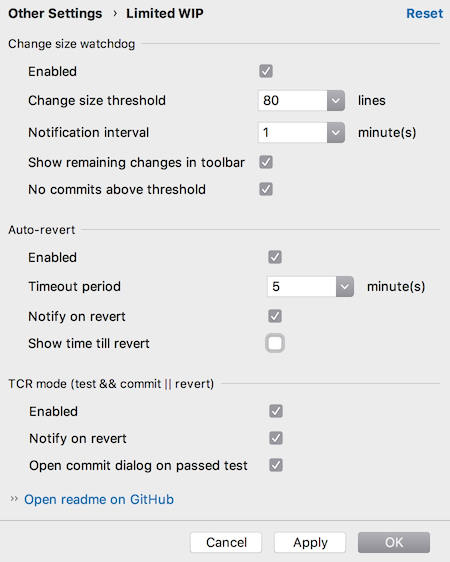
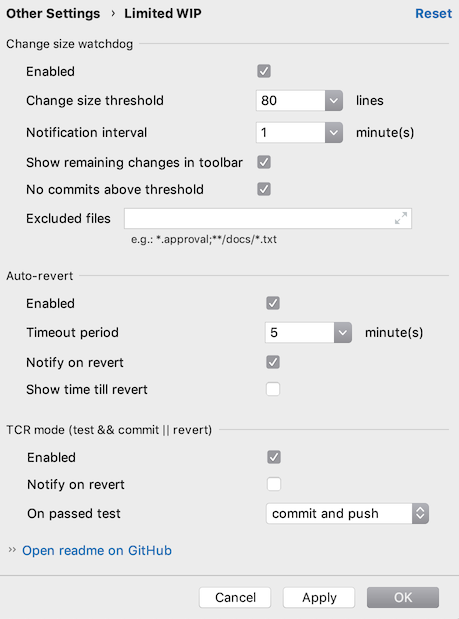
updated readme

diff --git a/README.md b/README.md
@@ -30,9 +30,12 @@ You can find settings in `Preferences -> Other Settings -> Limited WIP`, where y
  - enable/disable statusbar widget showing current change size and change size threshold, 
    e.g. `Change size: 50/80` means that change size is 50 and threshold is 80.
    You can click on the widget to suppress notifications until next commit.
- - if commits are allowed after change size exceeded threshold.
+ - enable/disable commits after change size exceeded threshold.
    If enabled and change size is above threshold, you will not be able to open commit dialog 
    and will see notification popup instead (although you can still force commit by clicking on the link in the popup).
+ - choose excluded files which will not be monitored by the watchdog.
+   Use `;` to separate patterns. Accepted wildcards: `?` - exactly one symbol;
+   `*` - zero or more symbols; `/` - path separator; `/**/` - any number of directories. 
 
 
 ## Auto-revert
@@ -55,15 +58,19 @@ You can find settings in `Preferences -> Other Settings -> Limited WIP`, where y
 
 
 ## TCR mode (test && commit || revert)
-You're not allowed to commit without running a test.
-If the test fails, changes are reverted. If the test passed, you should commit.
+ - You're not allowed to commit without running a test.
+ - If the test fails, current change list is reverted. 
+ - If the test passed, changes are committed.
 This is the most recent constraint so there isn't a lot of experience using it.
 However, it's much more useful and enjoyable than it might seem initially.
 
 You can find settings in `Preferences -> Other Settings -> Limited WIP`, where you can:
- - enable/disable component (it is disabled by default)
- - enable/disable notification on auto-revert (to make it clear why current changes disappeared)
- - enable/disable opening commit dialog on passed test 
+ - enable/disable component (disabled by default)
+ - enable/disable notification on revert (to make it clear why current changes disappeared)
+ - choose action on passed test, it can be
+    - open commit dialog
+    - commit (using last commit message)
+    - commit and push (if "push" is supported by VCS)
 
 I heard about the idea from [Kent Beck](https://twitter.com/KentBeck) mentioning Limbo and his
 ["test && commit || revert" blog post](https://medium.com/@kentbeck_7670/test-commit-revert-870bbd756864) in particular.
